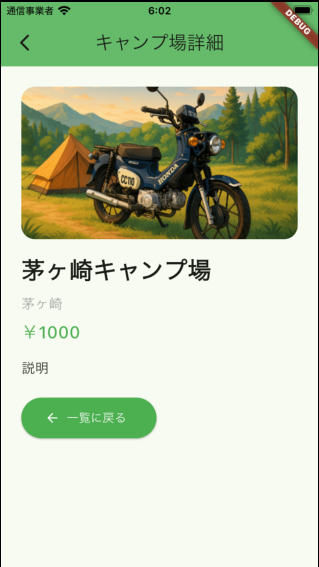
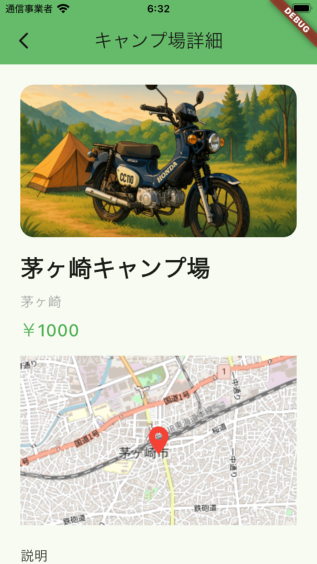
Add OSM

diff --git a/lib/screens/campsite_detail.dart b/lib/screens/campsite_detail.dart
@@ -1,5 +1,8 @@
 import 'package:flutter/material.dart';
+import 'package:flutter_map/flutter_map.dart';
+import 'package:latlong2/latlong.dart';
 import 'dart:convert';
+
 import '../api_client.dart';
 import '../models/campsite.dart';
 
@@ -47,6 +50,7 @@ class _CampsiteDetailPageState extends State<CampsiteDetailPage> {
             return const Center(child: Text('データなし'));
           }
           final c = snapshot.data!;
+
           return SingleChildScrollView(
             padding: const EdgeInsets.all(24),
             child: Column(
@@ -70,6 +74,34 @@ class _CampsiteDetailPageState extends State<CampsiteDetailPage> {
                 const SizedBox(height: 8),
                 Text('￥${c.price}', style: const TextStyle(fontSize: 20, fontWeight: FontWeight.w500, color: Colors.green)),
                 const SizedBox(height: 16),
+                // 🌍 OSM MAP
+                SizedBox(
+                  height: 200,
+                  width: double.infinity,
+                  child: FlutterMap(
+                    options: MapOptions(
+                      center: LatLng(c.latitude, c.longitude),
+                      zoom: 14,
+                    ),
+                    children: [
+                      TileLayer(
+                        urlTemplate: "https://{s}.tile.openstreetmap.org/{z}/{x}/{y}.png",
+                        subdomains: ['a', 'b', 'c'],
+                      ),
+                      MarkerLayer(
+                        markers: [
+                          Marker(
+                            point: LatLng(c.latitude, c.longitude),
+                            width: 40,
+                            height: 40,
+                            child: const Icon(Icons.location_on, size: 40, color: Colors.red),
+                          ),                        
+                        ],
+                      ),
+                    ],
+                  ),
+                ),
+                const SizedBox(height: 24),
                 Text(c.description, style: const TextStyle(fontSize: 16)),
                 const SizedBox(height: 24),
                 ElevatedButton.icon(

diff --git a/lib/models/campsite.dart b/lib/models/campsite.dart
@@ -2,17 +2,19 @@ class Campsite {
   final int id;
   final String name;
   final String address;
-  final String description;
-  final String imageUrl;
   final int price;
+  final String description;
+  final double latitude;
+  final double longitude;
 
   Campsite({
     required this.id,
     required this.name,
     required this.address,
-    required this.description,
-    required this.imageUrl,
     required this.price,
+    required this.description,
+    required this.latitude,
+    required this.longitude,
   });
 
   factory Campsite.fromJson(Map<String, dynamic> json) {
@@ -20,9 +22,10 @@ class Campsite {
       id: json['id'],
       name: json['name'],
       address: json['address'],
-      description: json['description'] ?? '',
-      imageUrl: json['image_url'] ?? '',
-      price: json['price'] ?? 0,
+      price: json['price'],
+      description: json['description'],
+      latitude: json['latitude'].toDouble(),
+      longitude: json['longitude'].toDouble(),
     );
   }
 }
